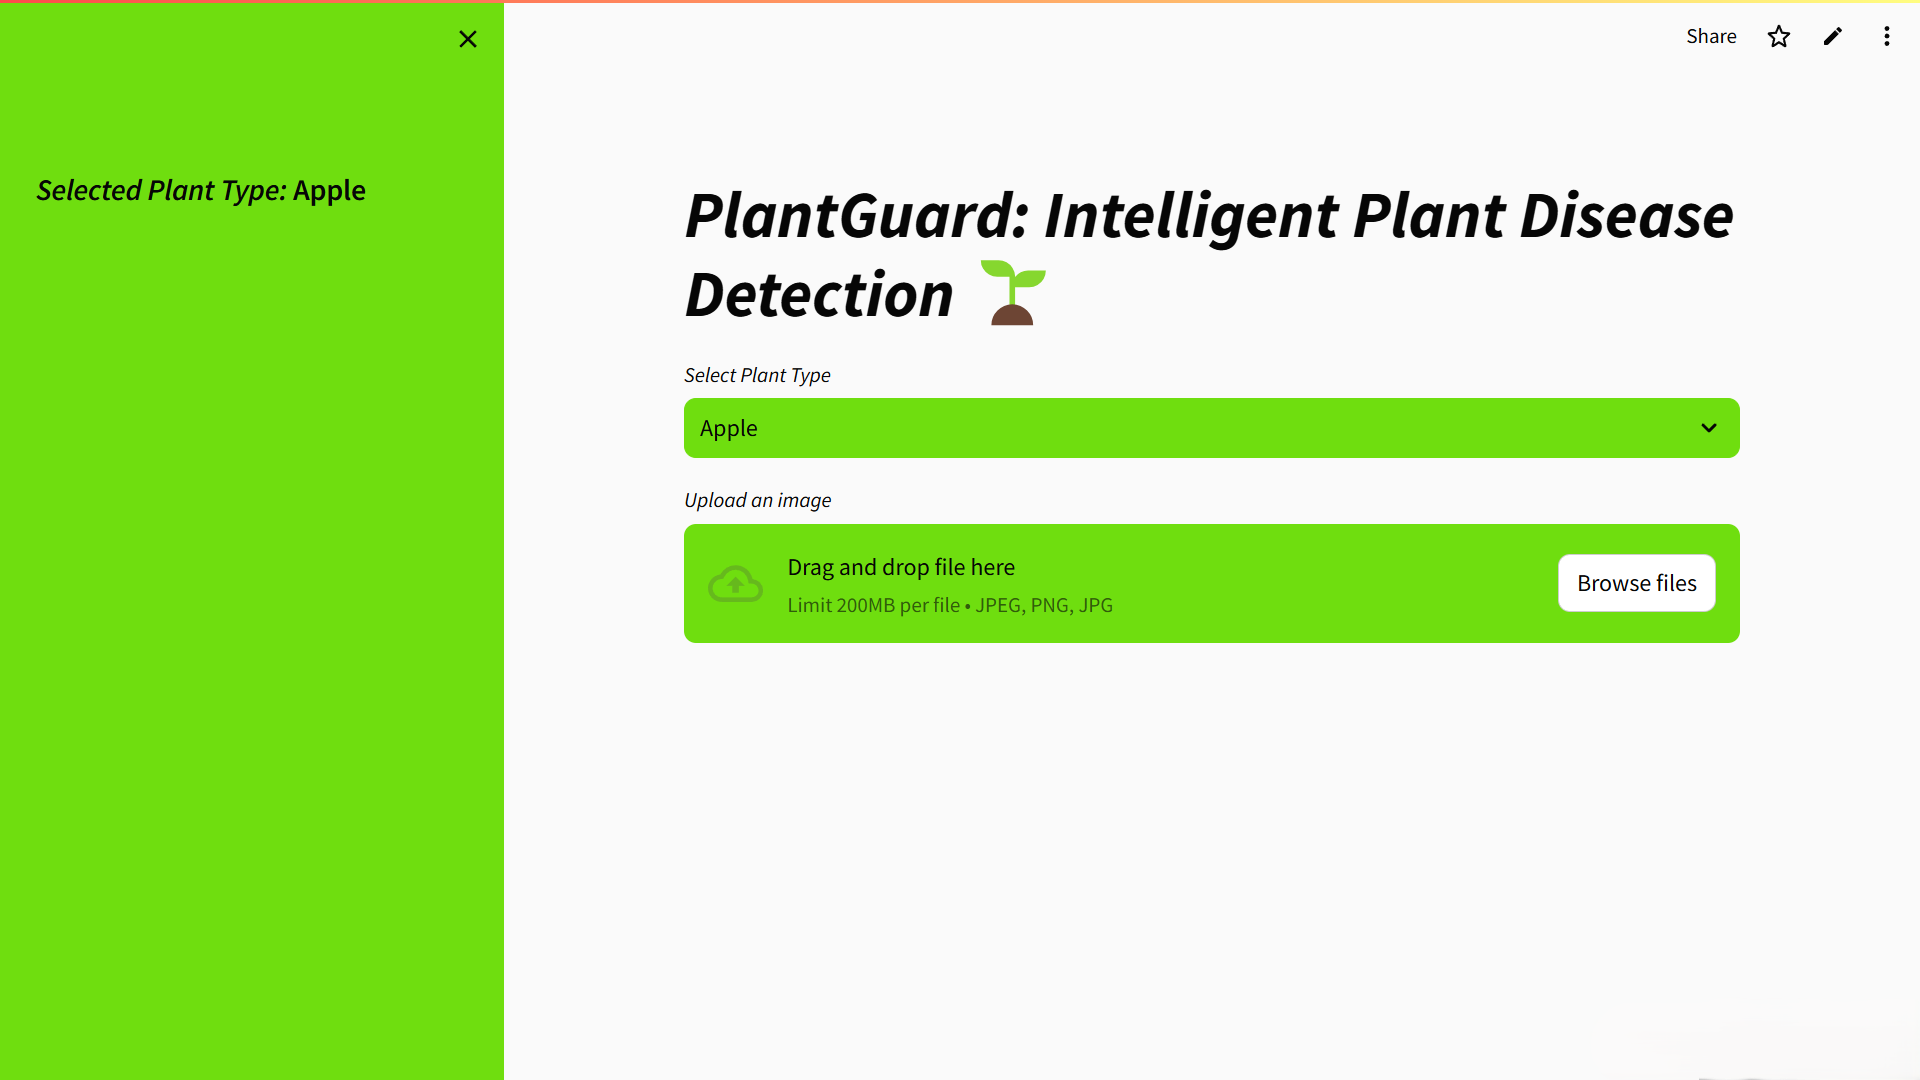
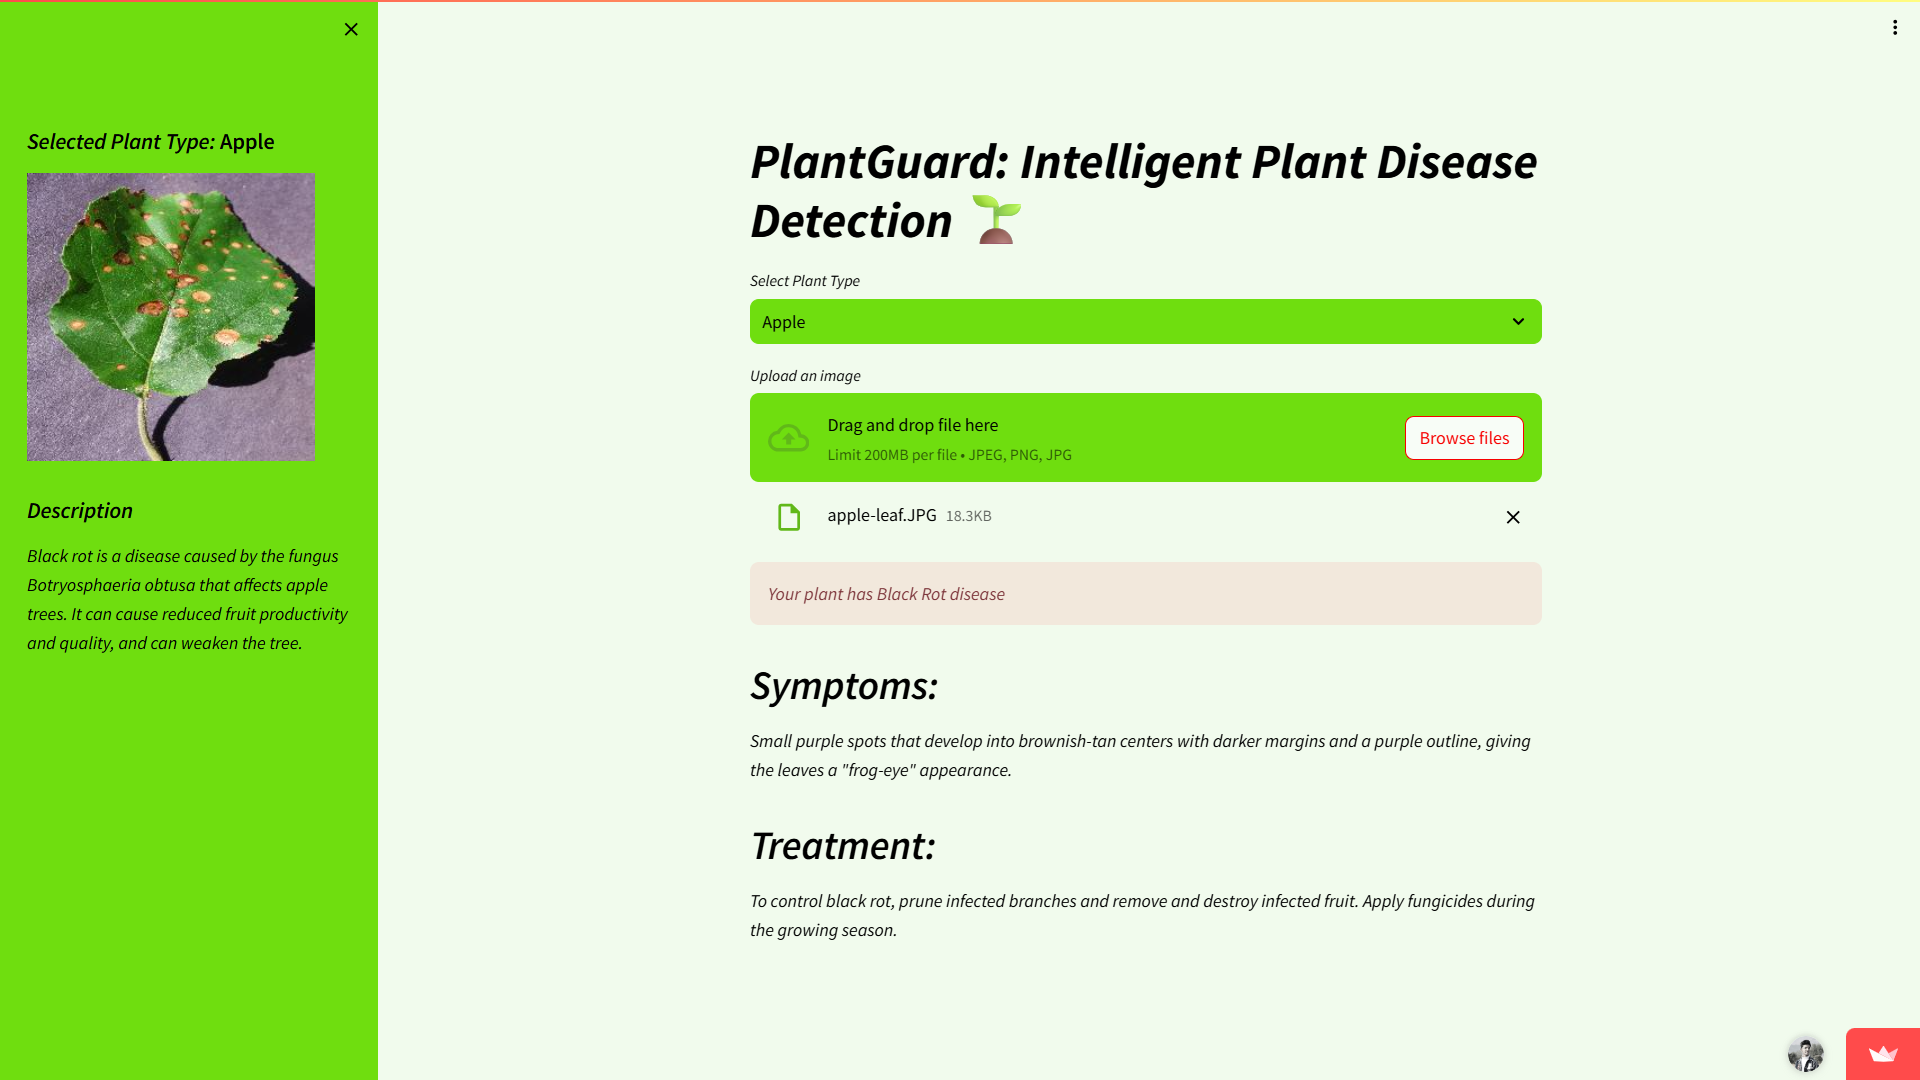
Implement structure for code changes with placeholders for future updates

diff --git a/datas/data.ts b/datas/data.ts
@@ -126,8 +126,7 @@ export const companiesInfo = [
     location: "India (remote)",
     duration: "January 2025 - March 2025",
     roles: [
-      "Developed waterborne disease prediction models using machine learning algorithms.",
-      "Achieved a Mean Absolute Error (MAE) of 0.53, demonstrating high model accuracy.",
+      "Waterborne Disease Prediction: Built machine learning models to forecast disease outbreaks; achieved a Mean Absolute Error (MAE) of 0.53",
     ],
   },
   {
@@ -137,8 +136,7 @@ export const companiesInfo = [
     location: "India (remote)",
     duration: "July 2022 - August 2022",
     roles: [
-      "Developed a chatbot for handling common queries using rule-based algorithms and NLP techniques.",
-      "Achieved 85% query resolution rate in testing.",
+      "Query Handling Chatbot: Developed a rule-based NLP chatbot to handle common user queries; achieved an 85% query resolution rate during testing.",
     ],
   },
   {
@@ -148,22 +146,52 @@ export const companiesInfo = [
     location: "India (Remote)",
     duration: "June 2022 - July 2022",
     roles: [
-      "Designed a fraud detection model for online transactions using supervised learning algorithms.",
-      "Detected fraudulent activities with precision 92%.",
+      "Fraud Detection System: Designed a supervised learning model for online transaction fraud detection; reached 92% precision in identifying fraudulent activity."
     ],
   },
 ];
 
 export const projects = [
   {
-    name: "ResearchMate",
-    type: "Personal Project",
-    description:"Research Mate is an open-source AI tool designed to streamline academic and research workflows. It leverages advanced generative AI with Retrieval-Augmented Generation (RAG) and intelligent agents to offer powerful features",
-    image: "/ResearchMate.png",
-    liveLink: "https://researchmate-chatbot.streamlit.app/",
-    stacks: ["FAISS", "Python", "Streamlit", "Langchain"],
+    name: "MyRidez AI Solutions",
+    type: "Industry Project",
+    description: "Worked on production AI systems at MyRidez, including surge pricing optimization, multilingual customer support automation, demand forecasting, and OCR-based document verification, improving revenue efficiency, response times, and onboarding workflows at scale.",
+    image: "/myridez.webp",
+    liveLink: "https://play.google.com/store/apps/details?id=com.myridez.usersappps&pcampaignid=web_share",
+    stacks: [
+      "AWS",
+      "FastAPI",
+      "Firebase",
+      "OCR",
+      "ML",
+      "Computer-Vision",
+    ],
   },
 
+  {
+    name: "ResearchMate",
+    type: "Personal Project",
+    description:"ResearchMate is an open-source, production-ready AI research assistant for document-grounded question answering. It combines a FastAPI backend, evaluated Retrieval-Augmented Generation (RAG), and optional agent workflows to deliver accurate, reliable, and transparent responses over research documents.",
+    image: "/ResearchMate.png",
+    liveLink: "https://researchmate.me/",
+    stacks: ["AWS", "Langchain", "Streamlit", "FastAPI","FAISS"],
+  },
+  {
+    name: "Plant Guard",
+    type: "Featured Project",
+    description:"Plant Guard is a smart plant disease detection tool that uses image recognition to identify plant diseases and suggest treatments, helping gardeners and farmers keep their plants healthy.",
+    image: "/PlantGuard.png",
+    liveLink: "https://plant-guard.streamlit.app/",
+    stacks: ["Tensorflow","Computer-Vision", "Streamlit", "Python"],
+  },
+  {
+    name: "Automatic License Plate Detection",
+    type: "Personal Project",
+    description:"An automatic license plate recognition system that uses computer vision to detect and read vehicle license plates, providing automated vehicle identification for access control, parking management, and security applications.",
+    image: "/ALPR.png",
+    liveLink: "https://github.com/miteshgupta07/Automatic-License-Plate-Recognition-System",
+    stacks: ["Computer-Vision", "OCR", "Python"],
+  },
   {
     name: "SketchGen",
     type: "Personal Project",
@@ -180,23 +208,7 @@ export const projects = [
     liveLink: "https://intellichat-chatbot.streamlit.app/",
     stacks: ["Groq", "LangChain", "Python", "Streamlit"],
   },
-  {
-    name: "Plant Guard",
-    type: "Featured Project",
-    description:"Plant Guard is a smart plant disease detection tool that uses image recognition to identify plant diseases and suggest treatments, helping gardeners and farmers keep their plants healthy.",
-    image: "/PlantGuard.png",
-    liveLink: "https://plant-guard.streamlit.app/",
-    stacks: ["Tensorflow","Computer-Vision", "Streamlit", "Python"],
-  },
 
-  {
-    name: "Automatic License Plate Detection",
-    type: "Personal Project",
-    description:"An automatic license plate recognition system that uses computer vision to detect and read vehicle license plates, providing automated vehicle identification for access control, parking management, and security applications.",
-    image: "/ALPR.png",
-    liveLink: "https://github.com/miteshgupta07/Automatic-License-Plate-Recognition-System",
-    stacks: ["Computer-Vision", "OCR", "Python"],
-  },
   {
     name: "Sentiment Analysis",
     type: "Personal Project",
@@ -205,14 +217,7 @@ export const projects = [
     liveLink: "https://github.com/miteshgupta07/Sentiment-Analysis-Using-CNN-and-LSTM",
     stacks: ["NLP", "Deep-Learning", "Python"],
   },
-  {
-    name: "Covid-19 Dashboard",
-    type: "Personal Project",
-    description:"A Streamlit dashboard for COVID-19 reporting that provides real-time updates, visualizations, and analysis of global and local COVID-19 data to track the pandemic's progress and impact.",
-    image: "/Covid.png",
-    liveLink:"https://covid-19-report-dashboard.streamlit.app/",
-    stacks: ["Streamlit", "Python", "Pandas"],
-  },
+
   {
     name: "CaptImage",
     type: "Personal Project",
@@ -229,5 +234,12 @@ export const projects = [
     liveLink: "https://github.com/miteshgupta07/ATS-Scoring-System",
     stacks: ["NLP", "Spacy", "Python"],
   },
-  ,
+  {
+    name: "Covid-19 Dashboard",
+    type: "Personal Project",
+    description:"A Streamlit dashboard for COVID-19 reporting that provides real-time updates, visualizations, and analysis of global and local COVID-19 data to track the pandemic's progress and impact.",
+    image: "/Covid.png",
+    liveLink:"https://covid-19-report-dashboard.streamlit.app/",
+    stacks: ["Streamlit", "Python", "Pandas"],
+  }
 ];

diff --git a/app/sections/Works.tsx b/app/sections/Works.tsx
@@ -13,14 +13,14 @@ const Works = () => {
       <header className="flex flex-row gap-4  justify-start lg:justify-end items-center font-b">
         <div className="flex flex-row gap-4 justify-center lg:justify-end items-center font-bold">
           <span className=" font-bold text-lg sm:text-2xl font-idgrotesk">
-            Things I've Built
+            Projects
           </span>
           <div className="w-[5%] lg:w-36 border-b-[1px] border-b-border-color"></div>
         </div>
       </header>
       <div className="flex flex-col gap-24 mt-10">
         {projects
-          .slice(0, 5)
+          .slice(0, 4)
           .map(
             (project, id) =>
               project && (
@@ -42,7 +42,7 @@ const Works = () => {
               href={"/works"}
               className=" flex font-bold border-b border-transparent  transition-all "
             >
-              <span className="">View More Projects</span>
+              <span className="text-xl">View All Projects</span>
 
               <span>
                 <IoArrowForward size={20} className=" text-secondary-color-3" />

diff --git a/app/components/Card.tsx b/app/components/Card.tsx
@@ -73,7 +73,10 @@ const Card = ({
             isEven ? "lg:-ml-16" : "lg:-mr-16"
           }  mt-2 rounded-md relative`}
         >
-          {description}
+          <p className="text-justify">
+            {description}
+          </p>
+
         </div>
         <div className=" px-0 lg:text-left mt-2 lg:px-2 flex gap-2 text-secondary-color-3 font-medium flex-wrap font-idgrotesk">
           {stacks.map((stack) => (
